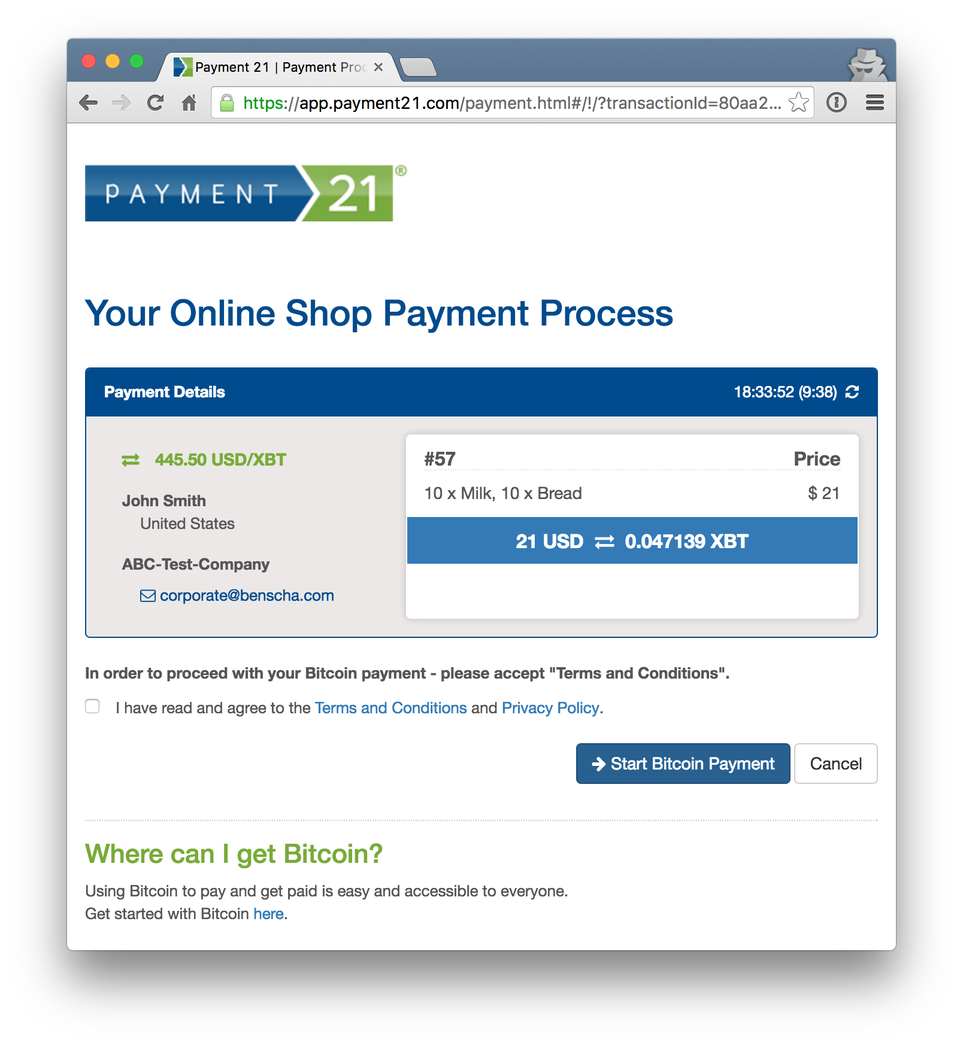
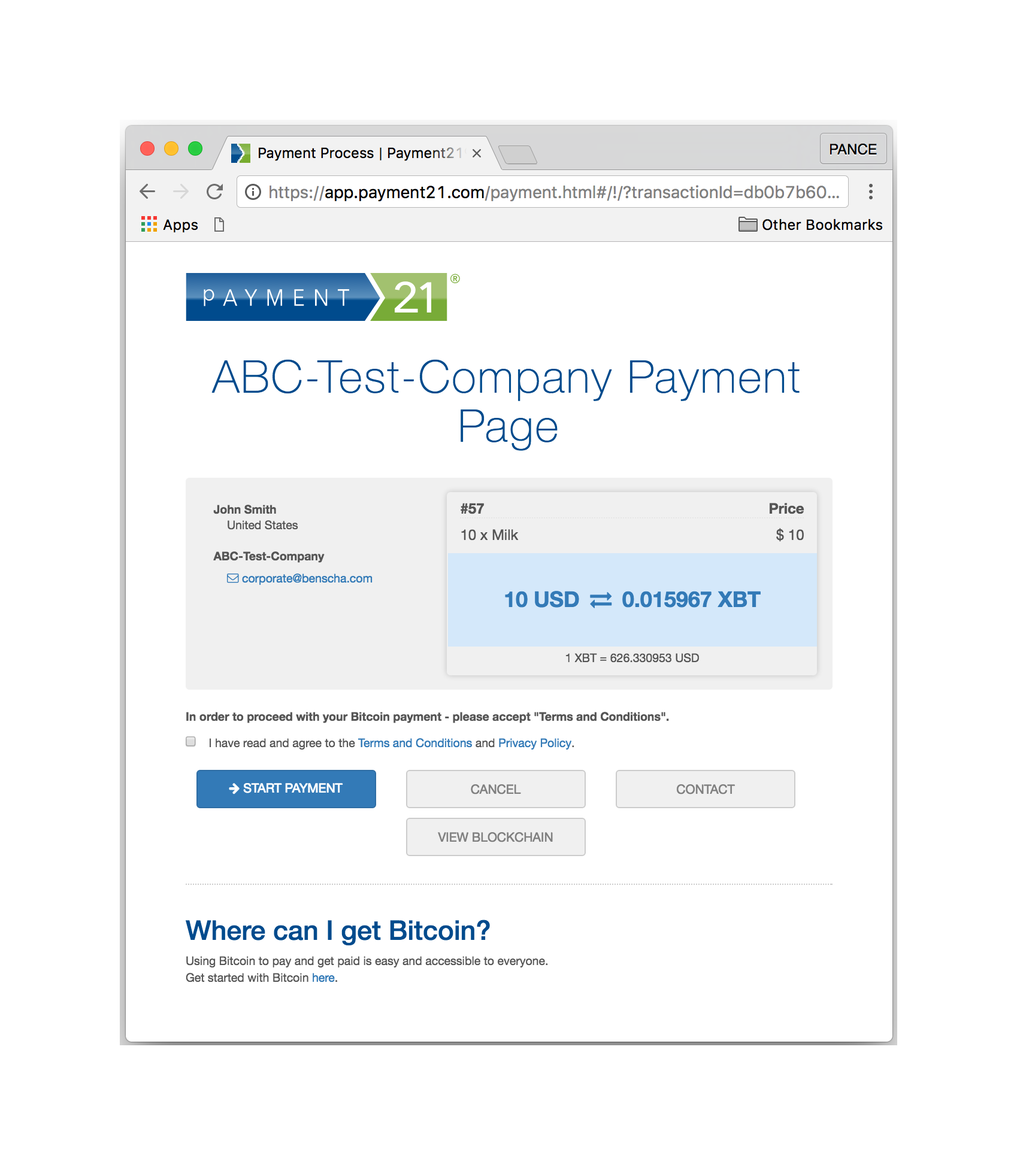
Update the sandbox test and payment pages

diff --git a/p21RestApi/p21RestApi.html b/p21RestApi/p21RestApi.html
@@ -1,14 +1,14 @@
-<!DOCTYPE html><html><head><meta charset="utf-8"><title>Payment21® Crypto API 1.15</title><link rel="stylesheet" href="https://maxcdn.bootstrapcdn.com/font-awesome/4.3.0/css/font-awesome.min.css"><style>@import url('https://fonts.googleapis.com/css?family=Roboto:400,700|Inconsolata|Raleway:200');.hljs-comment,.hljs-title{color:#8e908c}.hljs-variable,.hljs-attribute,.hljs-tag,.hljs-regexp,.ruby .hljs-constant,.xml .hljs-tag .hljs-title,.xml .hljs-pi,.xml .hljs-doctype,.html .hljs-doctype,.css .hljs-id,.css .hljs-class,.css .hljs-pseudo{color:#c82829}.hljs-number,.hljs-preprocessor,.hljs-pragma,.hljs-built_in,.hljs-literal,.hljs-params,.hljs-constant{color:#f5871f}.ruby .hljs-class .hljs-title,.css .hljs-rules .hljs-attribute{color:#eab700}.hljs-string,.hljs-value,.hljs-inheritance,.hljs-header,.ruby .hljs-symbol,.xml .hljs-cdata{color:#718c00}.css .hljs-hexcolor{color:#3e999f}.hljs-function,.python .hljs-decorator,.python .hljs-title,.ruby .hljs-function .hljs-title,.ruby .hljs-title .hljs-keyword,.perl .hljs-sub,.javascript .hljs-title,.coffeescript .hljs-title{color:#4271ae}.hljs-keyword,.javascript .hljs-function{color:#8959a8}.hljs{display:block;background:white;color:#4d4d4c;padding:.5em}.coffeescript .javascript,.javascript .xml,.tex .hljs-formula,.xml .javascript,.xml .vbscript,.xml .css,.xml .hljs-cdata{opacity:.5}.right .hljs-comment{color:#969896}.right .css .hljs-class,.right .css .hljs-id,.right .css .hljs-pseudo,.right .hljs-attribute,.right .hljs-regexp,.right .hljs-tag,.right .hljs-variable,.right .html .hljs-doctype,.right .ruby .hljs-constant,.right .xml .hljs-doctype,.right .xml .hljs-pi,.right .xml .hljs-tag .hljs-title{color:#c66}.right .hljs-built_in,.right .hljs-constant,.right .hljs-literal,.right .hljs-number,.right .hljs-params,.right .hljs-pragma,.right .hljs-preprocessor{color:#de935f}.right .css .hljs-rule .hljs-attribute,.right .ruby .hljs-class .hljs-title{color:#f0c674}.right .hljs-header,.right .hljs-inheritance,.right .hljs-name,.right .hljs-string,.right .hljs-value,.right .ruby .hljs-symbol,.right .xml .hljs-cdata{color:#b5bd68}.right .css .hljs-hexcolor,.right .hljs-title{color:#8abeb7}.right .coffeescript .hljs-title,.right .hljs-function,.right .javascript .hljs-title,.right .perl .hljs-sub,.right .python .hljs-decorator,.right .python .hljs-title,.right .ruby .hljs-function .hljs-title,.right .ruby .hljs-title .hljs-keyword{color:#81a2be}.right .hljs-keyword,.right .javascript .hljs-function{color:#b294bb}.right .hljs{display:block;overflow-x:auto;background:#1d1f21;color:#c5c8c6;padding:.5em;-webkit-text-size-adjust:none}.right .coffeescript .javascript,.right .javascript .xml,.right .tex .hljs-formula,.right .xml .css,.right .xml .hljs-cdata,.right .xml .javascript,.right .xml .vbscript{opacity:.5}body{font-family:"Helvetica Neue",Helvetica,Arial,sans-serif;font-size:13px;font-weight:normal;line-height:1.5em;font:400 14px / 1.5 "Helvetica Neue",Helvetica,Arial,sans-serif}div.content h1{color:#004b8d;font-family:"Helvetica Neue",Helvetica,Arial,sans-serif;font-weight:bold;background-image:url(images/payment21-logo.svg);background-size:280px auto;background-repeat:no-repeat;background-position:0 -23px;padding-top:70px}div.content>h2{color:#004b8d;font-family:"Helvetica Neue",Helvetica,Arial,sans-serif;font-size:30px;font-weight:bold;line-height:1.1em;margin-top:30px}div.content>h3{color:#78ab38;font-family:"Helvetica Neue",Helvetica,Arial,sans-serif;font-size:22px;font-weight:bold;line-height:1.1em;text-transform:none;margin-top:20px}div.content>h4{font-size:140%;font-family:"Helvetica Neue",Helvetica,Arial,sans-serif;text-transform:none;text-decoration:underline}p{text-align:justify}p>img{max-width:100%;height:auto}a:hover{text-decoration:underline}ul.nav-p21{padding:0;margin:0;margin-left:6px;list-style:none}ul::after{display:block;content:"";clear:both}ul.nav-p21>li{float:left;margin-right:2px}ul.nav-p21>li>a{display:inline-block;padding:10px 20px;color:rgba(0,0,0,0.7);background-color:#f2f2f2;text-decoration:none;border-top-left-radius:6px;border-top-right-radius:6px}.disable-p21{display:none}ul.nav-p21>li.active-p21>a{background-color:#dff0d8}iframe{border:1px solid #cfcfcf;width:100%;height:200px;background-color:#f5f5f5;border-radius:6px;box-sizing:border-box}body{color:black;background:white;font:400 14px / 1.5 "Helvetica Neue",Helvetica,Arial,sans-serif}header{border-bottom:1px solid #f2f2f2;margin-bottom:12px}h1,h2,h3,h4,h5{color:black;margin:12px 0}h1 .permalink,h2 .permalink,h3 .permalink,h4 .permalink,h5 .permalink{margin-left:0;opacity:0;transition:opacity .25s ease}h1:hover .permalink,h2:hover .permalink,h3:hover .permalink,h4:hover .permalink,h5:hover .permalink{opacity:1}.triple h1 .permalink,.triple h2 .permalink,.triple h3 .permalink,.triple h4 .permalink,.triple h5 .permalink{opacity:.15}.triple h1:hover .permalink,.triple h2:hover .permalink,.triple h3:hover .permalink,.triple h4:hover .permalink,.triple h5:hover .permalink{opacity:.15}h1{font:200 36px "Helvetica Neue",Helvetica,Arial,sans-serif;font-size:36px}h2{font:200 36px "Helvetica Neue",Helvetica,Arial,sans-serif;font-size:30px}h3{font-size:100%;text-transform:uppercase}h5{font-size:100%;font-weight:normal}p{margin:0 0 10px}p.choices{line-height:1.6}a{color:#337ab7;text-decoration:none}li p{margin:0}hr.split{border:0;height:1px;width:100%;padding-left:6px;margin:12px auto;background-image:linear-gradient(to right, rgba(0,0,0,0) 20%, rgba(0,0,0,0.2) 51.4%, rgba(255,255,255,0.2) 51.4%, rgba(255,255,255,0) 80%)}dl dt{float:left;width:130px;clear:left;text-align:right;overflow:hidden;text-overflow:ellipsis;white-space:nowrap;font-weight:700}dl dd{margin-left:150px}blockquote{color:rgba(0,0,0,0.5);font-size:15.5px;padding:10px 20px;margin:12px 0;border-left:5px solid #e8e8e8}blockquote p:last-child{margin-bottom:0}pre{background-color:#f5f5f5;padding:12px;border:1px solid #cfcfcf;border-radius:6px;overflow:auto}pre code{color:black;background-color:transparent;padding:0;border:none}code{color:#444;background-color:#f5f5f5;font:'Inconsolata',monospace;padding:1px 4px;border:1px solid #cfcfcf;border-radius:3px}ul,ol{padding-left:2em}table{border-collapse:collapse;border-spacing:0;margin-bottom:12px}table tr:nth-child(2n){background-color:#fafafa}table th,table td{padding:6px 12px;border:1px solid #e6e6e6}.text-muted{opacity:.5}.note,.warning{padding:.3em 1em;margin:1em 0;border-radius:2px;font-size:90%}.note h1,.warning h1,.note h2,.warning h2,.note h3,.warning h3,.note h4,.warning h4,.note h5,.warning h5,.note h6,.warning h6{font-family:200 36px "Helvetica Neue",Helvetica,Arial,sans-serif;font-size:135%;font-weight:500}.note p,.warning p{margin:.5em 0}.note{color:black;background-color:#eff4f9;border-left:4px solid #337ab7}.note h1,.note h2,.note h3,.note h4,.note h5,.note h6{color:#337ab7}.warning{color:black;background-color:#fbf1f0;border-left:4px solid #c9302c}.warning h1,.warning h2,.warning h3,.warning h4,.warning h5,.warning h6{color:#c9302c}header{margin-top:24px}nav{position:fixed;top:24px;bottom:0;overflow-y:auto}nav .resource-group{padding:0}nav .resource-group .heading{position:relative}nav .resource-group .heading .chevron{position:absolute;top:12px;right:12px;opacity:.5}nav .resource-group .heading a{display:block;color:black;opacity:.7;border-left:2px solid transparent;margin:0}nav .resource-group .heading a:hover{text-decoration:none;background-color:bad-color;border-left:2px solid black}nav ul{list-style-type:none;padding-left:0}nav ul a{display:block;font-size:13px;color:rgba(0,0,0,0.7);padding:8px 12px;border-top:1px solid #d9d9d9;border-left:2px solid transparent;overflow:hidden;text-overflow:ellipsis;white-space:nowrap}nav ul a:hover{text-decoration:none;background-color:bad-color;border-left:2px solid black}nav ul>li{margin:0}nav ul>li:first-child{margin-top:-12px}nav ul>li:last-child{margin-bottom:-12px}nav ul ul a{padding-left:24px}nav ul ul li{margin:0}nav ul ul li:first-child{margin-top:0}nav ul ul li:last-child{margin-bottom:0}nav>div>div>ul>li:first-child>a{border-top:none}.preload *{transition:none !important}.pull-left{float:left}.pull-right{float:right}.badge{display:inline-block;float:right;min-width:10px;min-height:14px;padding:3px 7px;font-size:12px;color:#000;background-color:#f2f2f2;border-radius:10px;margin:-2px 0}.badge.get{color:#62abed;background-color:#d4e8fa}.badge.head{color:#62abed;background-color:#d4e8fa}.badge.options{color:#62abed;background-color:#d4e8fa}.badge.put{color:#e2af50;background-color:#f4e1bd}.badge.patch{color:#e2af50;background-color:#f4e1bd}.badge.post{color:#a2de56;background-color:#ddf3c1}.badge.delete{color:#ce8383;background-color:#f2dede}.collapse-button{float:right}.collapse-button .close{display:none;color:#337ab7;cursor:pointer}.collapse-button .open{color:#337ab7;cursor:pointer}.collapse-button.show .close{display:inline}.collapse-button.show .open{display:none}.collapse-content{max-height:0;overflow:hidden;transition:max-height .3s ease-in-out}nav{width:220px}.container{max-width:940px;margin-left:auto;margin-right:auto}.container .row .content{margin-left:244px;width:696px}.container .row:after{content:'';display:block;clear:both}.container-fluid nav{width:22%}.container-fluid .row .content{margin-left:24%}.container-fluid.triple nav{width:16.5%;padding-right:1px}.container-fluid.triple .row .content{position:relative;margin-left:16.5%;padding-left:24px}.middle:before,.middle:after{content:'';display:table}.middle:after{clear:both}.middle{box-sizing:border-box;width:51.5%;padding-right:12px}.right{box-sizing:border-box;float:right;width:48.5%;padding-left:12px}.right a{color:#337ab7}.right h1,.right h2,.right h3,.right h4,.right h5,.right p,.right div{color:white}.right pre{background-color:#1d1f21;border:1px solid #1d1f21}.right pre code{color:#c5c8c6}.right .description{margin-top:12px}.triple .resource-heading{font-size:125%}.definition{margin-top:12px;margin-bottom:12px}.definition .method{font-weight:bold}.definition .method.get{color:#2e76b8}.definition .method.head{color:#2e76b8}.definition .method.options{color:#2e76b8}.definition .method.post{color:#7bb82e}.definition .method.put{color:#b8882e}.definition .method.patch{color:#b8882e}.definition .method.delete{color:#b82e2e}.definition .uri{word-break:break-all;word-wrap:break-word}.definition .hostname{opacity:.5}.example-names{background-color:#eee;padding:12px;border-radius:6px}.example-names .tab-button{cursor:pointer;color:black;border:1px solid #ddd;padding:6px;margin-left:12px}.example-names .tab-button.active{background-color:#d5d5d5}.right .example-names{background-color:#444}.right .example-names .tab-button{color:white;border:1px solid #666;border-radius:6px}.right .example-names .tab-button.active{background-color:#5e5e5e}#nav-background{position:fixed;left:0;top:0;bottom:0;width:16.5%;padding-right:14.4px;background-color:#fbfbfb;border-right:1px solid #f0f0f0;z-index:-1}#right-panel-background{position:absolute;right:-12px;top:-12px;bottom:-12px;width:48.6%;background-color:#333;z-index:-1}@media (max-width:1200px){nav{width:198px}.container{max-width:840px}.container .row .content{margin-left:224px;width:606px}}@media (max-width:992px){nav{width:169.4px}.container{max-width:720px}.container .row .content{margin-left:194px;width:526px}}@media (max-width:768px){nav{display:none}.container{width:95%;max-width:none}.container .row .content,.container-fluid .row .content,.container-fluid.triple .row .content{margin-left:auto;margin-right:auto;width:95%}#nav-background{display:none}#right-panel-background{width:48.6%}}.back-to-top{position:fixed;z-index:1;bottom:0;right:24px;padding:4px 8px;color:rgba(0,0,0,0.5);background-color:#f2f2f2;text-decoration:none !important;border-top:1px solid #d9d9d9;border-left:1px solid #d9d9d9;border-right:1px solid #d9d9d9;border-top-left-radius:3px;border-top-right-radius:3px}.resource-group{padding:12px;margin-bottom:12px;background-color:white;border:1px solid #d9d9d9;border-radius:6px}.resource-group h2.group-heading,.resource-group .heading a{padding:12px;margin:-12px -12px 12px -12px;background-color:#f2f2f2;border-bottom:1px solid #d9d9d9;border-top-left-radius:6px;border-top-right-radius:6px;white-space:nowrap;text-overflow:ellipsis;overflow:hidden}.triple .content .resource-group{padding:0;border:none}.triple .content .resource-group h2.group-heading,.triple .content .resource-group .heading a{margin:0 0 12px 0;border:1px solid #d9d9d9}nav .resource-group .heading a{padding:12px;margin-bottom:0}nav .resource-group .collapse-content{padding:0}.action{margin-bottom:12px;padding:12px 12px 0 12px;overflow:hidden;border:1px solid transparent;border-radius:6px}.action h4.action-heading{padding:6px 12px;margin:-12px -12px 12px -12px;border-bottom:1px solid transparent;border-top-left-radius:6px;border-top-right-radius:6px;overflow:hidden}.action h4.action-heading .name{float:right;font-weight:normal;padding:6px 0}.action h4.action-heading .method{padding:6px 12px;margin-right:12px;border-radius:3px;display:inline-block}.action h4.action-heading .method.get{color:#fff;background-color:#004b8d}.action h4.action-heading .method.head{color:#fff;background-color:#004b8d}.action h4.action-heading .method.options{color:#fff;background-color:#004b8d}.action h4.action-heading .method.put{color:#000;background-color:#f0a00a}.action h4.action-heading .method.patch{color:#000;background-color:#f0a00a}.action h4.action-heading .method.post{color:#000;background-color:#78ab38}.action h4.action-heading .method.delete{color:#000;background-color:#d9534f}.action h4.action-heading code{color:#444;background-color:#f5f5f5;border-color:#cfcfcf;font-weight:normal;word-break:break-all;display:inline-block;margin-top:2px}.action dl.inner{padding-bottom:2px}.action .title{border-bottom:1px solid white;margin:0 -12px -1px -12px;padding:12px}.action.get{border-color:#b4e2f6}.action.get h4.action-heading{color:#004b8d;background:#d4e8fa;border-bottom-color:#b4e2f6}.action.head{border-color:#b4e2f6}.action.head h4.action-heading{color:#004b8d;background:#d4e8fa;border-bottom-color:#b4e2f6}.action.options{border-color:#b4e2f6}.action.options h4.action-heading{color:#004b8d;background:#d4e8fa;border-bottom-color:#b4e2f6}.action.post{border-color:#dcefac}.action.post h4.action-heading{color:#78ab38;background:#ddf3c1;border-bottom-color:#dcefac}.action.put{border-color:#f0cba7}.action.put h4.action-heading{color:#f0a00a;background:#f4e1bd;border-bottom-color:#f0cba7}.action.patch{border-color:#f0cba7}.action.patch h4.action-heading{color:#f0a00a;background:#f4e1bd;border-bottom-color:#f0cba7}.action.delete{border-color:#ebccd1}.action.delete h4.action-heading{color:#d9534f;background:#f2dede;border-bottom-color:#ebccd1}</style></head><body class="preload"><a href="#top" class="text-muted back-to-top"><i class="fa fa-toggle-up"></i>&nbsp;Back to top</a><div class="container-fluid"><div class="row"><nav><div class="resource-group"><div class="heading"><div class="chevron"><i class="open fa fa-angle-down"></i></div><a href="#top">Overview</a></div><div class="collapse-content"><ul><li><a href="#header-version">Version</a></li><li><a href="#header-revision-history">Revision History</a></li><li><a href="#header-confidentiality-notice">Confidentiality Notice</a></li><li><a href="#header-1-payment21®-easy-integration-method">1 Payment21® Easy Integration Method</a></li><li><a href="#header-1.1-supported-use-cases">1.1 Supported Use Cases</a></li><li><a href="#header-1.2-payment21®-json-rest-api-">1.2 Payment21® JSON/REST API:</a></li><li><a href="#header-1.3-payment21®-cashier-page-">1.3 Payment21® Cashier Page:</a></li><li><a href="#header-1.4-typical-payment-use-case">1.4 Typical Payment Use Case</a></li><li><a href="#header-2-payment21®-json-rest-api">2 Payment21® JSON/REST API</a></li><li><a href="#header-2.1-json-rest-api-integration-how-to-integrate">2.1 JSON/REST API Integration: How to integrate</a></li><li><a href="#header-2.2-service-operations">2.2 Service Operations</a></li><li><a href="#header-2.3-calling-conventions">2.3 Calling Conventions</a></li><li><a href="#header-2.4-supported-http-verbs">2.4 Supported HTTP Verbs</a></li><li><a href="#header-2.5-authentication-and-authorization">2.5 Authentication and Authorization</a></li><li><a href="#header-3-payment21®-cashier-page">3 Payment21® Cashier Page</a></li><li><a href="#header-3.1-introduction">3.1 Introduction</a></li><li><a href="#header-3.2-what-the-merchant’s-consumers-will-see">3.2 What the merchant’s consumers will see</a></li><li><a href="#header-3.3-how-to-integrate">3.3 How to integrate</a></li><li><a href="#header-4-sandbox-api-connectivity-test">4 Sandbox API Connectivity Test</a></li><li><a href="#header-4.1-merchant-back-office">4.1 Merchant Back Office</a></li><li><a href="#header-4.2-bitcoin-testnet-(customization-upon-request)">4.2 Bitcoin Testnet (Customization upon request)</a></li><li><a href="#header-5-appendix">5 Appendix</a></li><li><a href="#header-5.1-api-response-&amp;-error-codes">5.1 API Response & Error Codes</a></li></ul></div></div><div class="resource-group"><div class="heading"><div class="chevron"><i class="open fa fa-angle-down"></i></div><a href="#api-reference">API Reference</a></div><div class="collapse-content"><ul><li><a href="#api-reference-createvendor-post"><span class="badge post"><i class="fa fa-plus"></i></span>CreateVendor</a></li><li><a href="#api-reference-p21paybycrypto-post"><span class="badge post"><i class="fa fa-plus"></i></span>P21PayByCrypto</a></li><li><a href="#api-reference-paymentstatus-get"><span class="badge get"><i class="fa fa-arrow-down"></i></span>PaymentStatus</a></li><li><a href="#api-reference-updatevendor">UpdateVendor</a><ul><li><a href="#api-reference-updatevendor-put"><span class="badge put"><i class="fa fa-pencil"></i></span>UpdateReplaceVendor</a></li><li><a href="#api-reference-updatevendor-patch"><span class="badge patch"><i class="fa fa-pencil"></i></span>UpdateModifyVendor</a></li></ul></li></ul></div></div><p style="text-align: center; word-wrap: break-word;"><a href="https://app.payment21.com">https://app.payment21.com</a></p></nav><div class="content"><header><h1 id="top">Payment21® Crypto API 1.15</h1></header><p>The purpose of this document is to describe the requirements, usage, implementation and purpose of the Payment21® Application Programming Interface (API). The API will allow merchants to send payment requests through a consistently available online interface, which can integrate well with any of their existing systems.</p>
+<!DOCTYPE html><html><head><meta charset="utf-8"><title>Payment21® Crypto API 1.16</title><link rel="stylesheet" href="https://maxcdn.bootstrapcdn.com/font-awesome/4.3.0/css/font-awesome.min.css"><style>@import url('https://fonts.googleapis.com/css?family=Roboto:400,700|Inconsolata|Raleway:200');.hljs-comment,.hljs-title{color:#8e908c}.hljs-variable,.hljs-attribute,.hljs-tag,.hljs-regexp,.ruby .hljs-constant,.xml .hljs-tag .hljs-title,.xml .hljs-pi,.xml .hljs-doctype,.html .hljs-doctype,.css .hljs-id,.css .hljs-class,.css .hljs-pseudo{color:#c82829}.hljs-number,.hljs-preprocessor,.hljs-pragma,.hljs-built_in,.hljs-literal,.hljs-params,.hljs-constant{color:#f5871f}.ruby .hljs-class .hljs-title,.css .hljs-rules .hljs-attribute{color:#eab700}.hljs-string,.hljs-value,.hljs-inheritance,.hljs-header,.ruby .hljs-symbol,.xml .hljs-cdata{color:#718c00}.css .hljs-hexcolor{color:#3e999f}.hljs-function,.python .hljs-decorator,.python .hljs-title,.ruby .hljs-function .hljs-title,.ruby .hljs-title .hljs-keyword,.perl .hljs-sub,.javascript .hljs-title,.coffeescript .hljs-title{color:#4271ae}.hljs-keyword,.javascript .hljs-function{color:#8959a8}.hljs{display:block;background:white;color:#4d4d4c;padding:.5em}.coffeescript .javascript,.javascript .xml,.tex .hljs-formula,.xml .javascript,.xml .vbscript,.xml .css,.xml .hljs-cdata{opacity:.5}.right .hljs-comment{color:#969896}.right .css .hljs-class,.right .css .hljs-id,.right .css .hljs-pseudo,.right .hljs-attribute,.right .hljs-regexp,.right .hljs-tag,.right .hljs-variable,.right .html .hljs-doctype,.right .ruby .hljs-constant,.right .xml .hljs-doctype,.right .xml .hljs-pi,.right .xml .hljs-tag .hljs-title{color:#c66}.right .hljs-built_in,.right .hljs-constant,.right .hljs-literal,.right .hljs-number,.right .hljs-params,.right .hljs-pragma,.right .hljs-preprocessor{color:#de935f}.right .css .hljs-rule .hljs-attribute,.right .ruby .hljs-class .hljs-title{color:#f0c674}.right .hljs-header,.right .hljs-inheritance,.right .hljs-name,.right .hljs-string,.right .hljs-value,.right .ruby .hljs-symbol,.right .xml .hljs-cdata{color:#b5bd68}.right .css .hljs-hexcolor,.right .hljs-title{color:#8abeb7}.right .coffeescript .hljs-title,.right .hljs-function,.right .javascript .hljs-title,.right .perl .hljs-sub,.right .python .hljs-decorator,.right .python .hljs-title,.right .ruby .hljs-function .hljs-title,.right .ruby .hljs-title .hljs-keyword{color:#81a2be}.right .hljs-keyword,.right .javascript .hljs-function{color:#b294bb}.right .hljs{display:block;overflow-x:auto;background:#1d1f21;color:#c5c8c6;padding:.5em;-webkit-text-size-adjust:none}.right .coffeescript .javascript,.right .javascript .xml,.right .tex .hljs-formula,.right .xml .css,.right .xml .hljs-cdata,.right .xml .javascript,.right .xml .vbscript{opacity:.5}body{font-family:"Helvetica Neue",Helvetica,Arial,sans-serif;font-size:13px;font-weight:normal;line-height:1.5em;font:400 14px / 1.5 "Helvetica Neue",Helvetica,Arial,sans-serif}div.content h1{color:#004b8d;font-family:"Helvetica Neue",Helvetica,Arial,sans-serif;font-weight:bold;background-image:url(images/payment21-logo.svg);background-size:280px auto;background-repeat:no-repeat;background-position:0 -23px;padding-top:70px}div.content>h2{color:#004b8d;font-family:"Helvetica Neue",Helvetica,Arial,sans-serif;font-size:30px;font-weight:bold;line-height:1.1em;margin-top:30px}div.content>h3{color:#78ab38;font-family:"Helvetica Neue",Helvetica,Arial,sans-serif;font-size:22px;font-weight:bold;line-height:1.1em;text-transform:none;margin-top:20px}div.content>h4{font-size:140%;font-family:"Helvetica Neue",Helvetica,Arial,sans-serif;text-transform:none;text-decoration:underline}p{text-align:justify}p>img{max-width:100%;height:auto}a:hover{text-decoration:underline}ul.nav-p21{padding:0;margin:0;margin-left:6px;list-style:none}ul::after{display:block;content:"";clear:both}ul.nav-p21>li{float:left;margin-right:2px}ul.nav-p21>li>a{display:inline-block;padding:10px 20px;color:rgba(0,0,0,0.7);background-color:#f2f2f2;text-decoration:none;border-top-left-radius:6px;border-top-right-radius:6px}.disable-p21{display:none}ul.nav-p21>li.active-p21>a{background-color:#dff0d8}iframe{border:1px solid #cfcfcf;width:100%;height:200px;background-color:#f5f5f5;border-radius:6px;box-sizing:border-box}body{color:black;background:white;font:400 14px / 1.5 "Helvetica Neue",Helvetica,Arial,sans-serif}header{border-bottom:1px solid #f2f2f2;margin-bottom:12px}h1,h2,h3,h4,h5{color:black;margin:12px 0}h1 .permalink,h2 .permalink,h3 .permalink,h4 .permalink,h5 .permalink{margin-left:0;opacity:0;transition:opacity .25s ease}h1:hover .permalink,h2:hover .permalink,h3:hover .permalink,h4:hover .permalink,h5:hover .permalink{opacity:1}.triple h1 .permalink,.triple h2 .permalink,.triple h3 .permalink,.triple h4 .permalink,.triple h5 .permalink{opacity:.15}.triple h1:hover .permalink,.triple h2:hover .permalink,.triple h3:hover .permalink,.triple h4:hover .permalink,.triple h5:hover .permalink{opacity:.15}h1{font:200 36px "Helvetica Neue",Helvetica,Arial,sans-serif;font-size:36px}h2{font:200 36px "Helvetica Neue",Helvetica,Arial,sans-serif;font-size:30px}h3{font-size:100%;text-transform:uppercase}h5{font-size:100%;font-weight:normal}p{margin:0 0 10px}p.choices{line-height:1.6}a{color:#337ab7;text-decoration:none}li p{margin:0}hr.split{border:0;height:1px;width:100%;padding-left:6px;margin:12px auto;background-image:linear-gradient(to right, rgba(0,0,0,0) 20%, rgba(0,0,0,0.2) 51.4%, rgba(255,255,255,0.2) 51.4%, rgba(255,255,255,0) 80%)}dl dt{float:left;width:130px;clear:left;text-align:right;overflow:hidden;text-overflow:ellipsis;white-space:nowrap;font-weight:700}dl dd{margin-left:150px}blockquote{color:rgba(0,0,0,0.5);font-size:15.5px;padding:10px 20px;margin:12px 0;border-left:5px solid #e8e8e8}blockquote p:last-child{margin-bottom:0}pre{background-color:#f5f5f5;padding:12px;border:1px solid #cfcfcf;border-radius:6px;overflow:auto}pre code{color:black;background-color:transparent;padding:0;border:none}code{color:#444;background-color:#f5f5f5;font:'Inconsolata',monospace;padding:1px 4px;border:1px solid #cfcfcf;border-radius:3px}ul,ol{padding-left:2em}table{border-collapse:collapse;border-spacing:0;margin-bottom:12px}table tr:nth-child(2n){background-color:#fafafa}table th,table td{padding:6px 12px;border:1px solid #e6e6e6}.text-muted{opacity:.5}.note,.warning{padding:.3em 1em;margin:1em 0;border-radius:2px;font-size:90%}.note h1,.warning h1,.note h2,.warning h2,.note h3,.warning h3,.note h4,.warning h4,.note h5,.warning h5,.note h6,.warning h6{font-family:200 36px "Helvetica Neue",Helvetica,Arial,sans-serif;font-size:135%;font-weight:500}.note p,.warning p{margin:.5em 0}.note{color:black;background-color:#eff4f9;border-left:4px solid #337ab7}.note h1,.note h2,.note h3,.note h4,.note h5,.note h6{color:#337ab7}.warning{color:black;background-color:#fbf1f0;border-left:4px solid #c9302c}.warning h1,.warning h2,.warning h3,.warning h4,.warning h5,.warning h6{color:#c9302c}header{margin-top:24px}nav{position:fixed;top:24px;bottom:0;overflow-y:auto}nav .resource-group{padding:0}nav .resource-group .heading{position:relative}nav .resource-group .heading .chevron{position:absolute;top:12px;right:12px;opacity:.5}nav .resource-group .heading a{display:block;color:black;opacity:.7;border-left:2px solid transparent;margin:0}nav .resource-group .heading a:hover{text-decoration:none;background-color:bad-color;border-left:2px solid black}nav ul{list-style-type:none;padding-left:0}nav ul a{display:block;font-size:13px;color:rgba(0,0,0,0.7);padding:8px 12px;border-top:1px solid #d9d9d9;border-left:2px solid transparent;overflow:hidden;text-overflow:ellipsis;white-space:nowrap}nav ul a:hover{text-decoration:none;background-color:bad-color;border-left:2px solid black}nav ul>li{margin:0}nav ul>li:first-child{margin-top:-12px}nav ul>li:last-child{margin-bottom:-12px}nav ul ul a{padding-left:24px}nav ul ul li{margin:0}nav ul ul li:first-child{margin-top:0}nav ul ul li:last-child{margin-bottom:0}nav>div>div>ul>li:first-child>a{border-top:none}.preload *{transition:none !important}.pull-left{float:left}.pull-right{float:right}.badge{display:inline-block;float:right;min-width:10px;min-height:14px;padding:3px 7px;font-size:12px;color:#000;background-color:#f2f2f2;border-radius:10px;margin:-2px 0}.badge.get{color:#62abed;background-color:#d4e8fa}.badge.head{color:#62abed;background-color:#d4e8fa}.badge.options{color:#62abed;background-color:#d4e8fa}.badge.put{color:#e2af50;background-color:#f4e1bd}.badge.patch{color:#e2af50;background-color:#f4e1bd}.badge.post{color:#a2de56;background-color:#ddf3c1}.badge.delete{color:#ce8383;background-color:#f2dede}.collapse-button{float:right}.collapse-button .close{display:none;color:#337ab7;cursor:pointer}.collapse-button .open{color:#337ab7;cursor:pointer}.collapse-button.show .close{display:inline}.collapse-button.show .open{display:none}.collapse-content{max-height:0;overflow:hidden;transition:max-height .3s ease-in-out}nav{width:220px}.container{max-width:940px;margin-left:auto;margin-right:auto}.container .row .content{margin-left:244px;width:696px}.container .row:after{content:'';display:block;clear:both}.container-fluid nav{width:22%}.container-fluid .row .content{margin-left:24%}.container-fluid.triple nav{width:16.5%;padding-right:1px}.container-fluid.triple .row .content{position:relative;margin-left:16.5%;padding-left:24px}.middle:before,.middle:after{content:'';display:table}.middle:after{clear:both}.middle{box-sizing:border-box;width:51.5%;padding-right:12px}.right{box-sizing:border-box;float:right;width:48.5%;padding-left:12px}.right a{color:#337ab7}.right h1,.right h2,.right h3,.right h4,.right h5,.right p,.right div{color:white}.right pre{background-color:#1d1f21;border:1px solid #1d1f21}.right pre code{color:#c5c8c6}.right .description{margin-top:12px}.triple .resource-heading{font-size:125%}.definition{margin-top:12px;margin-bottom:12px}.definition .method{font-weight:bold}.definition .method.get{color:#2e76b8}.definition .method.head{color:#2e76b8}.definition .method.options{color:#2e76b8}.definition .method.post{color:#7bb82e}.definition .method.put{color:#b8882e}.definition .method.patch{color:#b8882e}.definition .method.delete{color:#b82e2e}.definition .uri{word-break:break-all;word-wrap:break-word}.definition .hostname{opacity:.5}.example-names{background-color:#eee;padding:12px;border-radius:6px}.example-names .tab-button{cursor:pointer;color:black;border:1px solid #ddd;padding:6px;margin-left:12px}.example-names .tab-button.active{background-color:#d5d5d5}.right .example-names{background-color:#444}.right .example-names .tab-button{color:white;border:1px solid #666;border-radius:6px}.right .example-names .tab-button.active{background-color:#5e5e5e}#nav-background{position:fixed;left:0;top:0;bottom:0;width:16.5%;padding-right:14.4px;background-color:#fbfbfb;border-right:1px solid #f0f0f0;z-index:-1}#right-panel-background{position:absolute;right:-12px;top:-12px;bottom:-12px;width:48.6%;background-color:#333;z-index:-1}@media (max-width:1200px){nav{width:198px}.container{max-width:840px}.container .row .content{margin-left:224px;width:606px}}@media (max-width:992px){nav{width:169.4px}.container{max-width:720px}.container .row .content{margin-left:194px;width:526px}}@media (max-width:768px){nav{display:none}.container{width:95%;max-width:none}.container .row .content,.container-fluid .row .content,.container-fluid.triple .row .content{margin-left:auto;margin-right:auto;width:95%}#nav-background{display:none}#right-panel-background{width:48.6%}}.back-to-top{position:fixed;z-index:1;bottom:0;right:24px;padding:4px 8px;color:rgba(0,0,0,0.5);background-color:#f2f2f2;text-decoration:none !important;border-top:1px solid #d9d9d9;border-left:1px solid #d9d9d9;border-right:1px solid #d9d9d9;border-top-left-radius:3px;border-top-right-radius:3px}.resource-group{padding:12px;margin-bottom:12px;background-color:white;border:1px solid #d9d9d9;border-radius:6px}.resource-group h2.group-heading,.resource-group .heading a{padding:12px;margin:-12px -12px 12px -12px;background-color:#f2f2f2;border-bottom:1px solid #d9d9d9;border-top-left-radius:6px;border-top-right-radius:6px;white-space:nowrap;text-overflow:ellipsis;overflow:hidden}.triple .content .resource-group{padding:0;border:none}.triple .content .resource-group h2.group-heading,.triple .content .resource-group .heading a{margin:0 0 12px 0;border:1px solid #d9d9d9}nav .resource-group .heading a{padding:12px;margin-bottom:0}nav .resource-group .collapse-content{padding:0}.action{margin-bottom:12px;padding:12px 12px 0 12px;overflow:hidden;border:1px solid transparent;border-radius:6px}.action h4.action-heading{padding:6px 12px;margin:-12px -12px 12px -12px;border-bottom:1px solid transparent;border-top-left-radius:6px;border-top-right-radius:6px;overflow:hidden}.action h4.action-heading .name{float:right;font-weight:normal;padding:6px 0}.action h4.action-heading .method{padding:6px 12px;margin-right:12px;border-radius:3px;display:inline-block}.action h4.action-heading .method.get{color:#fff;background-color:#004b8d}.action h4.action-heading .method.head{color:#fff;background-color:#004b8d}.action h4.action-heading .method.options{color:#fff;background-color:#004b8d}.action h4.action-heading .method.put{color:#000;background-color:#f0a00a}.action h4.action-heading .method.patch{color:#000;background-color:#f0a00a}.action h4.action-heading .method.post{color:#000;background-color:#78ab38}.action h4.action-heading .method.delete{color:#000;background-color:#d9534f}.action h4.action-heading code{color:#444;background-color:#f5f5f5;border-color:#cfcfcf;font-weight:normal;word-break:break-all;display:inline-block;margin-top:2px}.action dl.inner{padding-bottom:2px}.action .title{border-bottom:1px solid white;margin:0 -12px -1px -12px;padding:12px}.action.get{border-color:#b4e2f6}.action.get h4.action-heading{color:#004b8d;background:#d4e8fa;border-bottom-color:#b4e2f6}.action.head{border-color:#b4e2f6}.action.head h4.action-heading{color:#004b8d;background:#d4e8fa;border-bottom-color:#b4e2f6}.action.options{border-color:#b4e2f6}.action.options h4.action-heading{color:#004b8d;background:#d4e8fa;border-bottom-color:#b4e2f6}.action.post{border-color:#dcefac}.action.post h4.action-heading{color:#78ab38;background:#ddf3c1;border-bottom-color:#dcefac}.action.put{border-color:#f0cba7}.action.put h4.action-heading{color:#f0a00a;background:#f4e1bd;border-bottom-color:#f0cba7}.action.patch{border-color:#f0cba7}.action.patch h4.action-heading{color:#f0a00a;background:#f4e1bd;border-bottom-color:#f0cba7}.action.delete{border-color:#ebccd1}.action.delete h4.action-heading{color:#d9534f;background:#f2dede;border-bottom-color:#ebccd1}</style></head><body class="preload"><a href="#top" class="text-muted back-to-top"><i class="fa fa-toggle-up"></i>&nbsp;Back to top</a><div class="container-fluid"><div class="row"><nav><div class="resource-group"><div class="heading"><div class="chevron"><i class="open fa fa-angle-down"></i></div><a href="#top">Overview</a></div><div class="collapse-content"><ul><li><a href="#header-version">Version</a></li><li><a href="#header-revision-history">Revision History</a></li><li><a href="#header-confidentiality-notice">Confidentiality Notice</a></li><li><a href="#header-1-payment21®-easy-integration-method">1 Payment21® Easy Integration Method</a></li><li><a href="#header-1.1-supported-use-cases">1.1 Supported Use Cases</a></li><li><a href="#header-1.2-payment21®-json-rest-api-">1.2 Payment21® JSON/REST API:</a></li><li><a href="#header-1.3-payment21®-cashier-page-">1.3 Payment21® Cashier Page:</a></li><li><a href="#header-1.4-typical-payment-use-case">1.4 Typical Payment Use Case</a></li><li><a href="#header-2-payment21®-json-rest-api">2 Payment21® JSON/REST API</a></li><li><a href="#header-2.1-json-rest-api-integration-how-to-integrate">2.1 JSON/REST API Integration: How to integrate</a></li><li><a href="#header-2.2-service-operations">2.2 Service Operations</a></li><li><a href="#header-2.3-calling-conventions">2.3 Calling Conventions</a></li><li><a href="#header-2.4-supported-http-verbs">2.4 Supported HTTP Verbs</a></li><li><a href="#header-2.5-authentication-and-authorization">2.5 Authentication and Authorization</a></li><li><a href="#header-3-payment21®-cashier-page">3 Payment21® Cashier Page</a></li><li><a href="#header-3.1-introduction">3.1 Introduction</a></li><li><a href="#header-3.2-what-the-merchant’s-consumers-will-see">3.2 What the merchant’s consumers will see</a></li><li><a href="#header-3.3-how-to-integrate">3.3 How to integrate</a></li><li><a href="#header-4-sandbox-api-connectivity-test">4 Sandbox API Connectivity Test</a></li><li><a href="#header-4.1-merchant-back-office">4.1 Merchant Back Office</a></li><li><a href="#header-4.2-bitcoin-testnet-(customization-upon-request)">4.2 Bitcoin Testnet (Customization upon request)</a></li><li><a href="#header-5-appendix">5 Appendix</a></li><li><a href="#header-5.1-api-response-&amp;-error-codes">5.1 API Response & Error Codes</a></li></ul></div></div><div class="resource-group"><div class="heading"><div class="chevron"><i class="open fa fa-angle-down"></i></div><a href="#api-reference">API Reference</a></div><div class="collapse-content"><ul><li><a href="#api-reference-createvendor-post"><span class="badge post"><i class="fa fa-plus"></i></span>CreateVendor</a></li><li><a href="#api-reference-p21paybycrypto-post"><span class="badge post"><i class="fa fa-plus"></i></span>P21PayByCrypto</a></li><li><a href="#api-reference-paymentstatus-get"><span class="badge get"><i class="fa fa-arrow-down"></i></span>PaymentStatus</a></li><li><a href="#api-reference-updatevendor">UpdateVendor</a><ul><li><a href="#api-reference-updatevendor-put"><span class="badge put"><i class="fa fa-pencil"></i></span>UpdateReplaceVendor</a></li><li><a href="#api-reference-updatevendor-patch"><span class="badge patch"><i class="fa fa-pencil"></i></span>UpdateModifyVendor</a></li></ul></li></ul></div></div><p style="text-align: center; word-wrap: break-word;"><a href="https://app.payment21.com">https://app.payment21.com</a></p></nav><div class="content"><header><h1 id="top">Payment21® Crypto API 1.16</h1></header><p>The purpose of this document is to describe the requirements, usage, implementation and purpose of the Payment21® Application Programming Interface (API). The API will allow merchants to send payment requests through a consistently available online interface, which can integrate well with any of their existing systems.</p>
 <h4 id="header-version">Version <a class="permalink" href="#header-version" aria-hidden="true">¶</a></h4>
 <table>
     <tbody>
         <tr>
             <td><strong>Last updated</strong></td>
-            <td>09.09.2016</td>
+            <td>07.10.2016</td>
         </tr>
         <tr>
             <td><strong>Version No</strong></td>
-            <td>1.15</td>
+            <td>1.16</td>
         </tr>
         <tr>
             <td><strong>Owner</strong></td>
@@ -72,6 +72,12 @@
 <td>Documenting minumum order amount</td>
 <td>PI</td>
 <td>1.15</td>
+</tr>
+<tr>
+<td>07.10.16</td>
+<td>Update the sandbox test and payment page</td>
+<td>PI</td>
+<td>1.16</td>
 </tr>
 </tbody>
 </table>
@@ -238,7 +244,7 @@ You can call the API method PaymentStatus to check if the payment was successful
 <p><strong>Once your site is ready to use the API, you can add Payment21® crypto payments to your payment options.</strong></p>
 <p>Your consumer can now choose to pay by “crypto currency” (Bitcoin, XBT).</p>
 <p>Before the payment page is displayed for the consumer, the merchant sends information about the order through the API for verification, validation and authentication. This verification is done on the Payment21® side. Once the order information is successfully verified, the consumer will be redirected to the Payment21® crypto payment page. This is a secure form, which allows the consumer to pay using Bitcoin. See an example on the demo store: <a href="https://app.payment21.com/demoshop.html">https://app.payment21.com/demoshop.html</a>.</p>
-<p>As the first step, consumers have to explicitly agree with the Terms and Conditions by marking a checkbox and clicking “Confirm”.</p>
+<p>As the first step, consumers have to explicitly agree with the Terms and Conditions by marking a checkbox and clicking “Start Payment”.</p>
 <p><img src="images/payment_details.jpg" alt="name"></p>
 <p>After confirming, the consumer is shown a QR-Code along with their payment details.</p>
 <p><img src="images/payment_process.jpg" alt="name"></p>
@@ -293,11 +299,6 @@ You can call the API method PaymentStatus to check if the payment was successful
 <p><img src="images/sandbox_test.png" alt="name"></p>
 <p>After clicking on “Generate Merchant API Key”, you will see your merchant ID and your API key as shown below:</p>
 <p><img src="images/api_key.png" alt="name"></p>
-<p>Using these credentials, you can call the method P21PayByCrypto using a different URL than in production:</p>
-<p>/api/mapi/sandbox/p21PayByCrypto (instead of /api/mapi/p21PayByCrypto)</p>
-<p>For simplicity, some checks are omitted in the sandbox. For example, you can specify any vendor ID if you have not created a vendor yet. The success and error responses returned by the sandbox are identical to the live system.</p>
-<p>Before you start implementing and calling the sandbox service, you need to enter a redirect URL, which should be part of your website. After the purchaser has completed the payment, he/she is redirected to this URL. You can include the value “{transactionId}”, which is automatically replaced with the ID of the completed transaction. This enables you to identify the payment when the purchaser is redirected from the cashier page back to your site.</p>
-<p>After you successfully called the sandbox API method, you can continue with the Payment21® merchant onboarding process.</p>
 <h3 id="header-4.2-bitcoin-testnet-(customization-upon-request)">4.2 Bitcoin Testnet (Customization upon request) <a class="permalink" href="#header-4.2-bitcoin-testnet-(customization-upon-request)" aria-hidden="true">¶</a></h3>
 <p><strong>If you want to test our Bitcoin Cashier System with the Bitcoin Testnet, you need to set up your Test Wallet first.</strong></p>
 <p>The Bitcoin Testnet is an alternative Bitcoin block chain, to be used for testing. Testnet coins are separate and distinct from actual Bitcoins, and are never supposed to have any value. This allows application developers or Bitcoin testers to experiment, without having to use real Bitcoins.</p>
@@ -361,6 +362,11 @@ You can call the API method PaymentStatus to check if the payment was successful
 <td>MAPI_UNKNOWN_VENDOR</td>
 <td>404</td>
 <td>The given vendor ID is unknown</td>
+</tr>
+<tr>
+<td>MAPI_REDIRECT_URL_MISSING</td>
+<td>400</td>
+<td>The merchant’s redirect URL is not specified</td>
 </tr>
 <tr>
 <td>ENTITY_NOT_FOUND</td>
@@ -1672,7 +1678,7 @@ You can call the API method PaymentStatus to check if the payment was successful
     <span class="hljs-string">"company"</span>
   ]
 </span>}</code></pre><div style="height: 1px;"></div></div></div><div class="title"><strong>Response&nbsp;&nbsp;<code>200</code></strong><div class="collapse-button"><span class="close">Hide</span><span class="open">Show</span></div></div><div class="collapse-content"><div class="inner"><div class="description"><p>This method doesn’t return any information if successfully called. Please see the API error section for further details.</p>
-</div><h5>Headers</h5><pre><code><span class="hljs-attribute">Content-Type</span>: <span class="hljs-string">application/json;charset=UTF-8</span><br><span class="hljs-attribute">Server</span>: <span class="hljs-string">Apache-Coyote/1.1</span><br><span class="hljs-attribute">X-Content-Type-Options</span>: <span class="hljs-string">nosniff</span><br><span class="hljs-attribute">X-XSS-Protection</span>: <span class="hljs-string">1; mode=block</span><br><span class="hljs-attribute">X-Frame-Options</span>: <span class="hljs-string">DENY</span><br><span class="hljs-attribute">Date</span>: <span class="hljs-string">Wed, 13 Jan 2016 22:17:35 GMT</span><br><span class="hljs-attribute">Connection</span>: <span class="hljs-string">close</span><br><span class="hljs-attribute">Content-Length</span>: <span class="hljs-string">0</span></code></pre><div style="height: 1px;"></div></div></div></div></div></section></div></div></div><p style="text-align: center;" class="text-muted">Generated by&nbsp;<a href="https://github.com/danielgtaylor/aglio" class="aglio">aglio</a>&nbsp;on 09 Sep 2016</p><script>/* eslint-env browser */
+</div><h5>Headers</h5><pre><code><span class="hljs-attribute">Content-Type</span>: <span class="hljs-string">application/json;charset=UTF-8</span><br><span class="hljs-attribute">Server</span>: <span class="hljs-string">Apache-Coyote/1.1</span><br><span class="hljs-attribute">X-Content-Type-Options</span>: <span class="hljs-string">nosniff</span><br><span class="hljs-attribute">X-XSS-Protection</span>: <span class="hljs-string">1; mode=block</span><br><span class="hljs-attribute">X-Frame-Options</span>: <span class="hljs-string">DENY</span><br><span class="hljs-attribute">Date</span>: <span class="hljs-string">Wed, 13 Jan 2016 22:17:35 GMT</span><br><span class="hljs-attribute">Connection</span>: <span class="hljs-string">close</span><br><span class="hljs-attribute">Content-Length</span>: <span class="hljs-string">0</span></code></pre><div style="height: 1px;"></div></div></div></div></div></section></div></div></div><p style="text-align: center;" class="text-muted">Generated by&nbsp;<a href="https://github.com/danielgtaylor/aglio" class="aglio">aglio</a>&nbsp;on 12 Oct 2016</p><script>/* eslint-env browser */
 /* eslint quotes: [2, "single"] */
 'use strict';
 

diff --git a/p21RestApi/version_table.html b/p21RestApi/version_table.html
@@ -2,11 +2,11 @@
 	<tbody>
 		<tr>
 			<td><strong>Last updated</strong></td>
-			<td>09.09.2016</td>
+			<td>07.10.2016</td>
 		</tr>
 		<tr>
 			<td><strong>Version No</strong></td>
-			<td>1.15</td>
+			<td>1.16</td>
 		</tr>
 		<tr>
 			<td><strong>Owner</strong></td>
